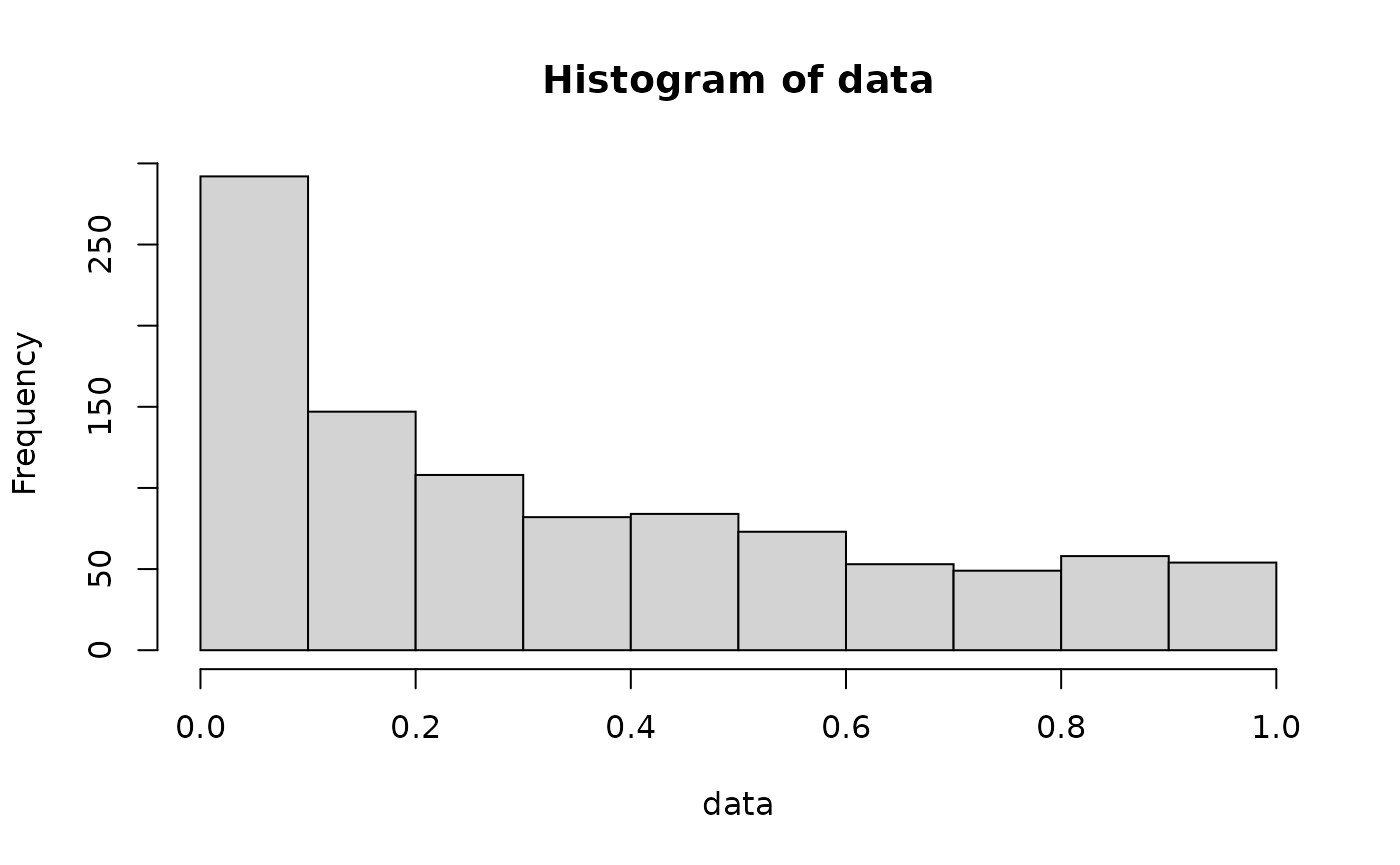
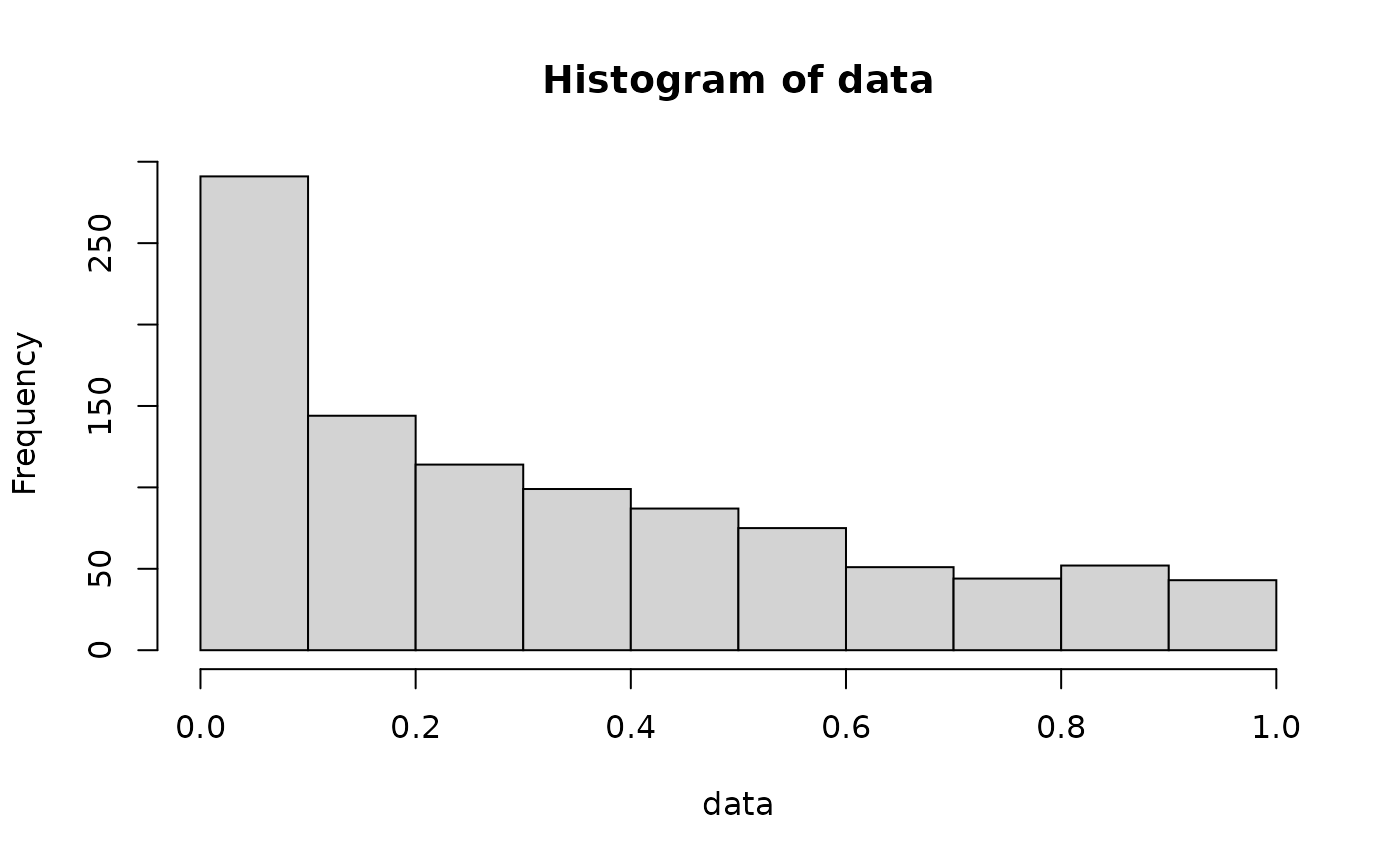
Built site for bradfordr: 0.0.0.9000@0137638

diff --git a/articles/rng-bradford-dist.html b/articles/rng-bradford-dist.html
@@ -133,7 +133,7 @@ x = F^{-1}(u;c) = \frac{(1+c)^u - 1}{c}
 <code class="sourceCode R"><span class="va">data</span> <span class="op">&lt;-</span> <span class="fu"><a href="../reference/rbradford.html">rbradford</a></span><span class="op">(</span><span class="fl">1000</span>, c<span class="op">=</span><span class="fl">10</span><span class="op">)</span>
 
 <span class="fu"><a href="https://rdrr.io/r/utils/head.html">head</a></span><span class="op">(</span><span class="va">data</span><span class="op">)</span>
-<span class="co">#&gt; [1] 0.1322101 0.2494580 0.3505206 0.8375898 0.2197747 0.4720924</span></code></pre></div>
+<span class="co">#&gt; [1] 0.095811357 0.003677671 0.307076581 0.919729377 0.161664803 0.106407685</span></code></pre></div>
 <p>We can easily plot this data to understand how it behaves:</p>
 <div class="sourceCode" id="cb3"><pre class="downlit sourceCode r">
 <code class="sourceCode R"><span class="fu"><a href="https://rdrr.io/r/graphics/hist.html">hist</a></span><span class="op">(</span><span class="va">data</span><span class="op">)</span></code></pre></div>
